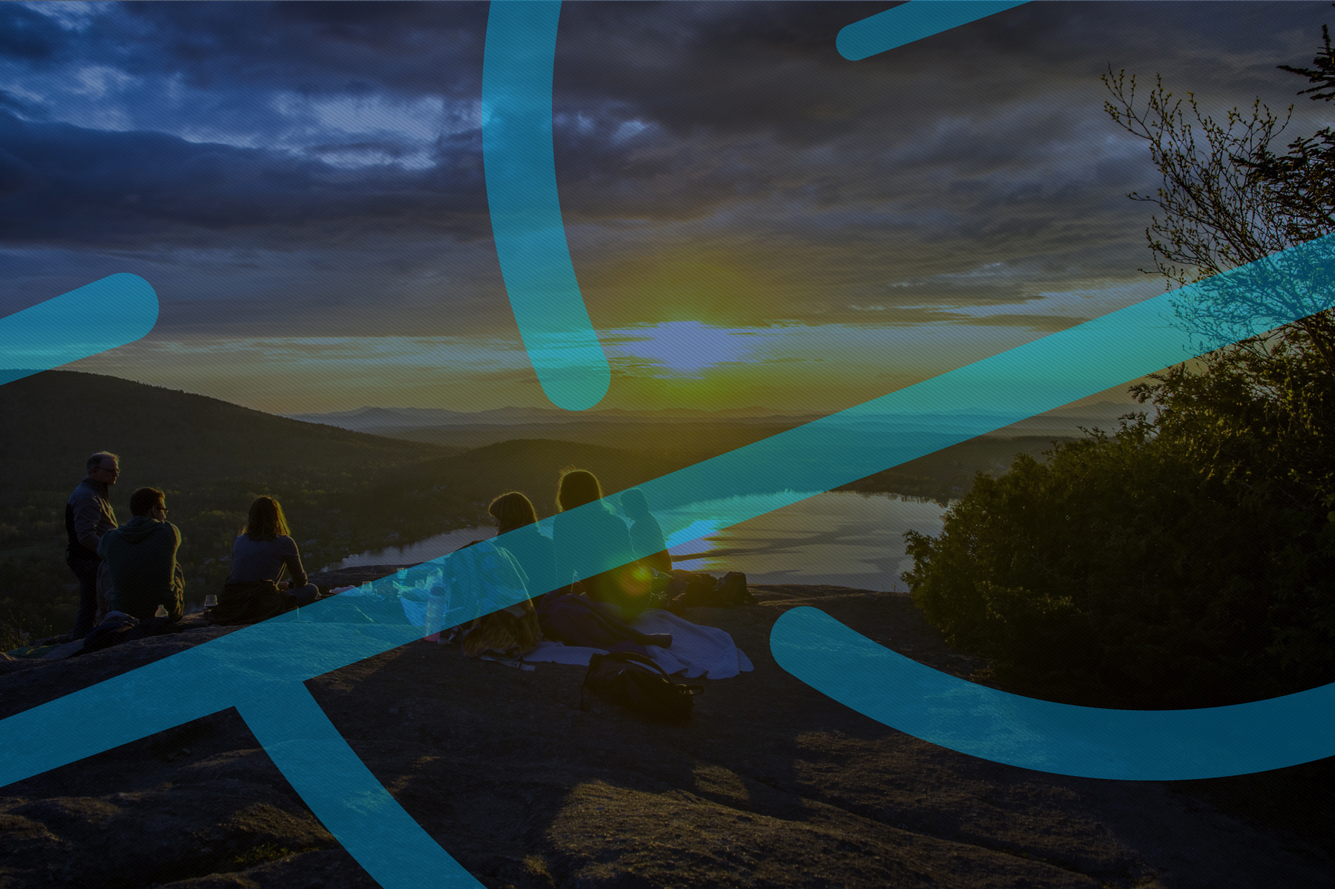
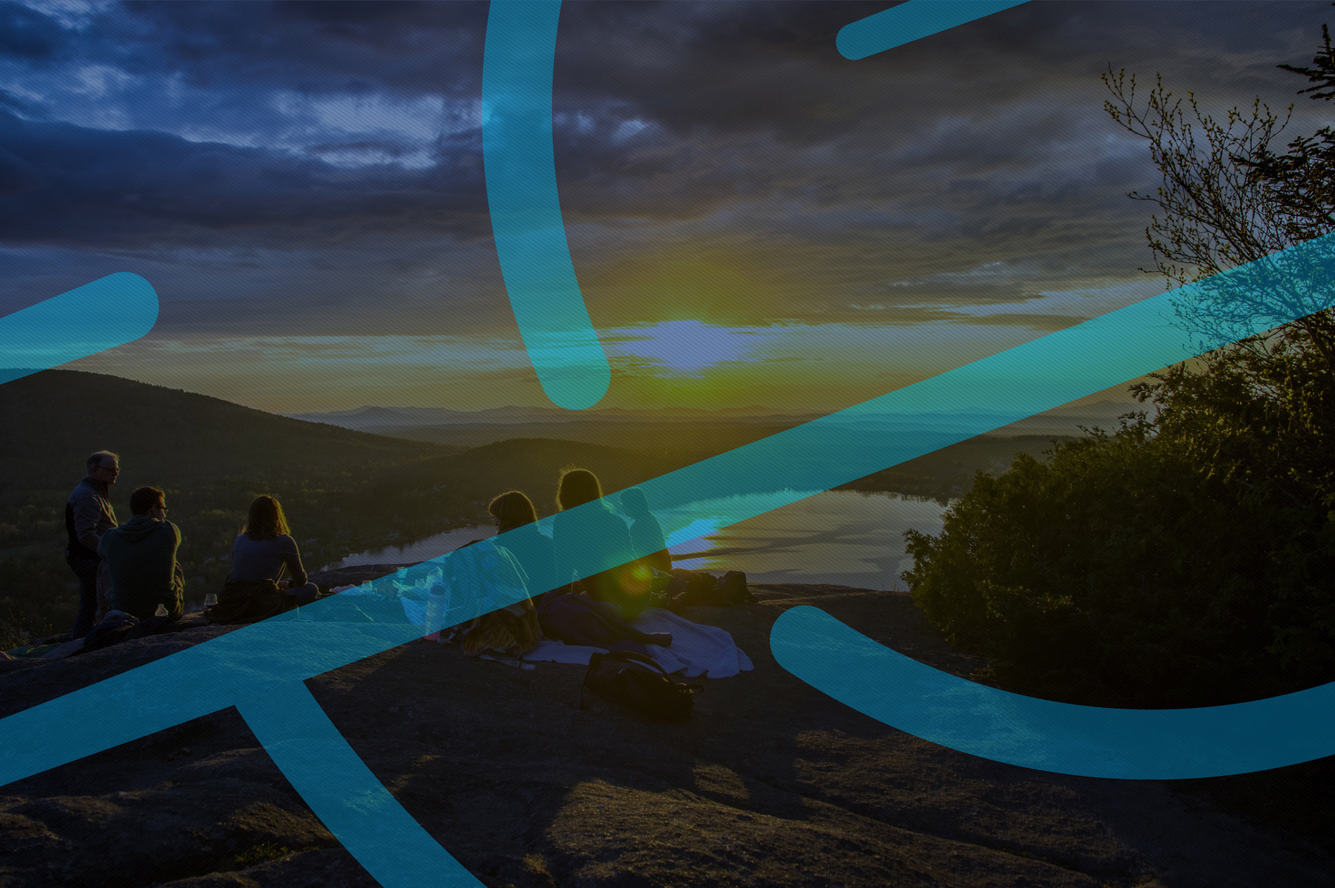
Le di forma al section de la galeria y modifique unos bg

Changed region(s): [[0.8371, 0.1231, 1.0, 0.4617], [0.9921, 0.0616, 1.0, 0.1231]]

diff --git a/index.html b/index.html
@@ -5,7 +5,7 @@
     <meta charset="utf-8">
     <title>Esker Outdoors</title>
 
-    <link href="https://fonts.googleapis.com/css?family=Teko:300,400,500,600,700&display=swap" rel="stylesheet">
+    <link href="https://fonts.googleapis.com/css?family=Alfa+Slab+One|Teko:300,400,500,600,700&display=swap" rel="stylesheet">
 
     <link rel="stylesheet" href="css/style.css">
 
@@ -111,18 +111,24 @@
     </header>
     <!-- FIN HEADER -->
 
-    <!-- GALERIA -->
+    <!-- INICIO GALERIA -->
     <div id="carousel" class="carousel slide" data-ride="carousel">
-      <section class="carousel-inner">
-        <article class="carousel-item active">
-            <img src="slides/productos/mochila.png" class="" alt="Mochila 30 lts">
-            <div class="info-slide">
-              <h2>Mochila 30 lts</h2>
-              <h1>Natway Blanc 30</h1>
-              <span>$1690.00</span>
-            </div>
-        </article>
-      </section>
+      <div class="container">
+        <div class="row">
+          <section class="carousel-inner">
+            <article class="d-flex justify-content-center carousel-item active">
+              <div class="col-4 producto">
+                <img src="productos/mochila-azul-frente.png" class="" alt="Mochila 30 lts">
+              </div>
+              <div class="col-4 info-slide">
+                <h2>Mochila 30 lts</h2>
+                <h1>Natway Blanc 30</h1>
+                <span>$1690.00</span>
+              </div>
+            </article>
+          </section>
+        </div>
+      </div>
     </div>
     <script src="https://code.jquery.com/jquery-3.3.1.slim.min.js" integrity="sha384-q8i/X+965DzO0rT7abK41JStQIAqVgRVzpbzo5smXKp4YfRvH+8abtTE1Pi6jizo" crossorigin="anonymous"></script>
     <script src="https://cdnjs.cloudflare.com/ajax/libs/popper.js/1.14.7/umd/popper.min.js" integrity="sha384-UO2eT0CpHqdSJQ6hJty5KVphtPhzWj9WO1clHTMGa3JDZwrnQq4sF86dIHNDz0W1" crossorigin="anonymous"></script>

diff --git a/css/style.css b/css/style.css
@@ -191,12 +191,54 @@ header {
   margin: 0 25px;
 }
 
-
 /* ______ GALERIA ______*/
-.carousel-inner{
-  background-image:url("../img/bg-slide-home.jpg");
+#carousel {
+  background-image: url("../img/bg-slide-home.jpg");
+  background-position: center bottom;
+  background-repeat: no-repeat;
+  background-size: cover;
 }
 
-.carousel-item img{
-  width: 30%;
+.carousel-inner {
+  overflow: hidden;
+  padding: 300px 100px 200px 100px;
+}
+
+.producto {
+  float: left;
+}
+
+.carousel-item img {
+  width: 100%;
+  max-width: 274px;
+}
+
+.info-slide {
+  float: left;
+  text-align: left;
+  padding-left: 50px;
+  padding-top: 35px;
+}
+
+.info-slide h1 {
+  font-family: 'Alfa Slab One', cursive;
+  color: #FFF;
+  font-size: 48px;
+  text-transform: uppercase;
+  margin-bottom: 50px;
+}
+
+.info-slide h2 {
+  font-family: 'Alfa Slab One', cursive;
+  color: #00c1de;
+  font-size: 24px;
+}
+
+.info-slide span {
+  font-family: 'Teko', sans-serif;
+  color: #FFF;
+  font-size: 36px;
+  font-weight: bold;
+  padding: 5px 20px;
+  border: 1px solid #FFF;
 }
